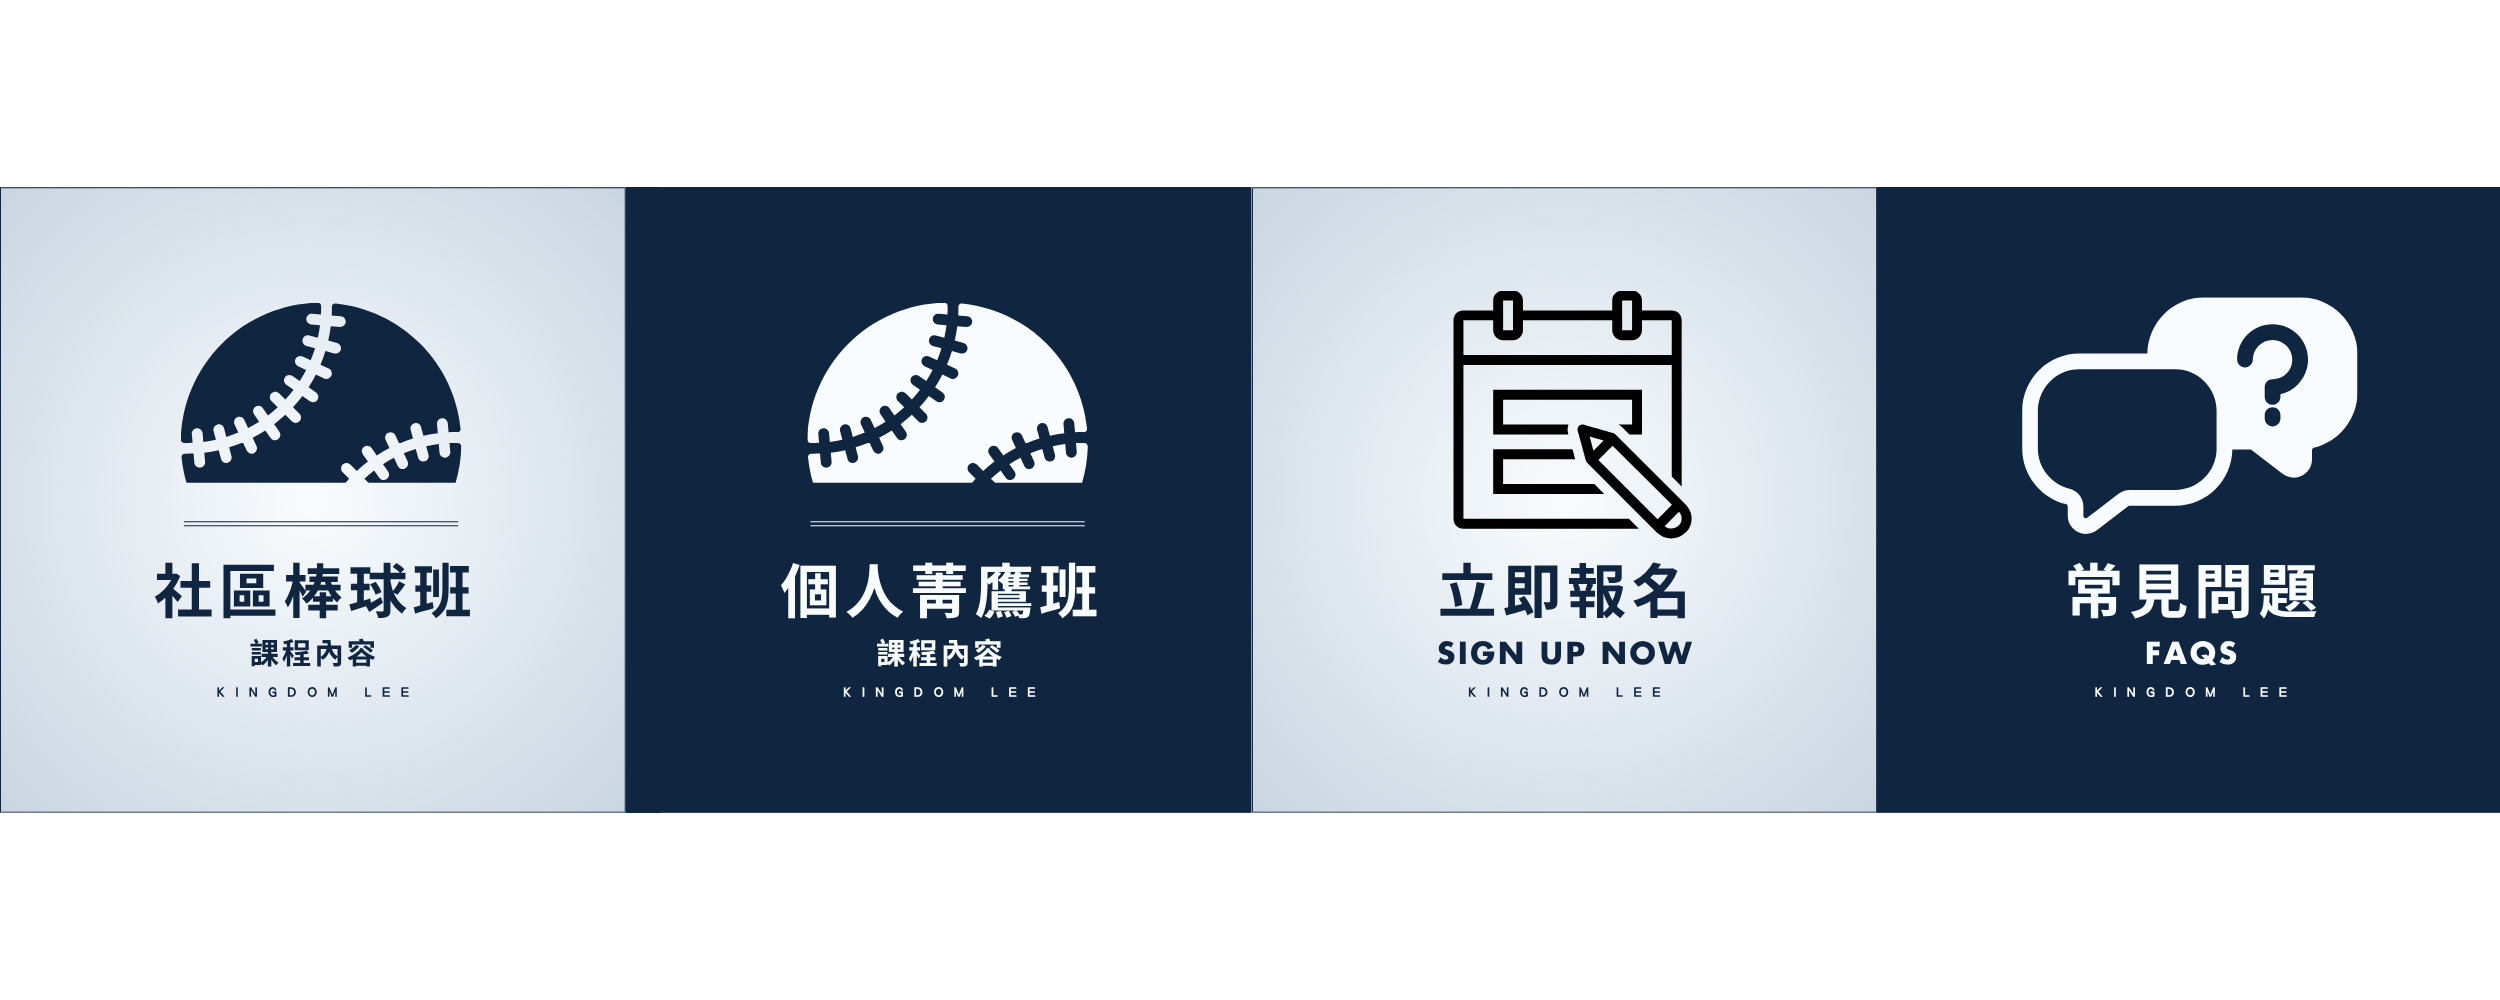
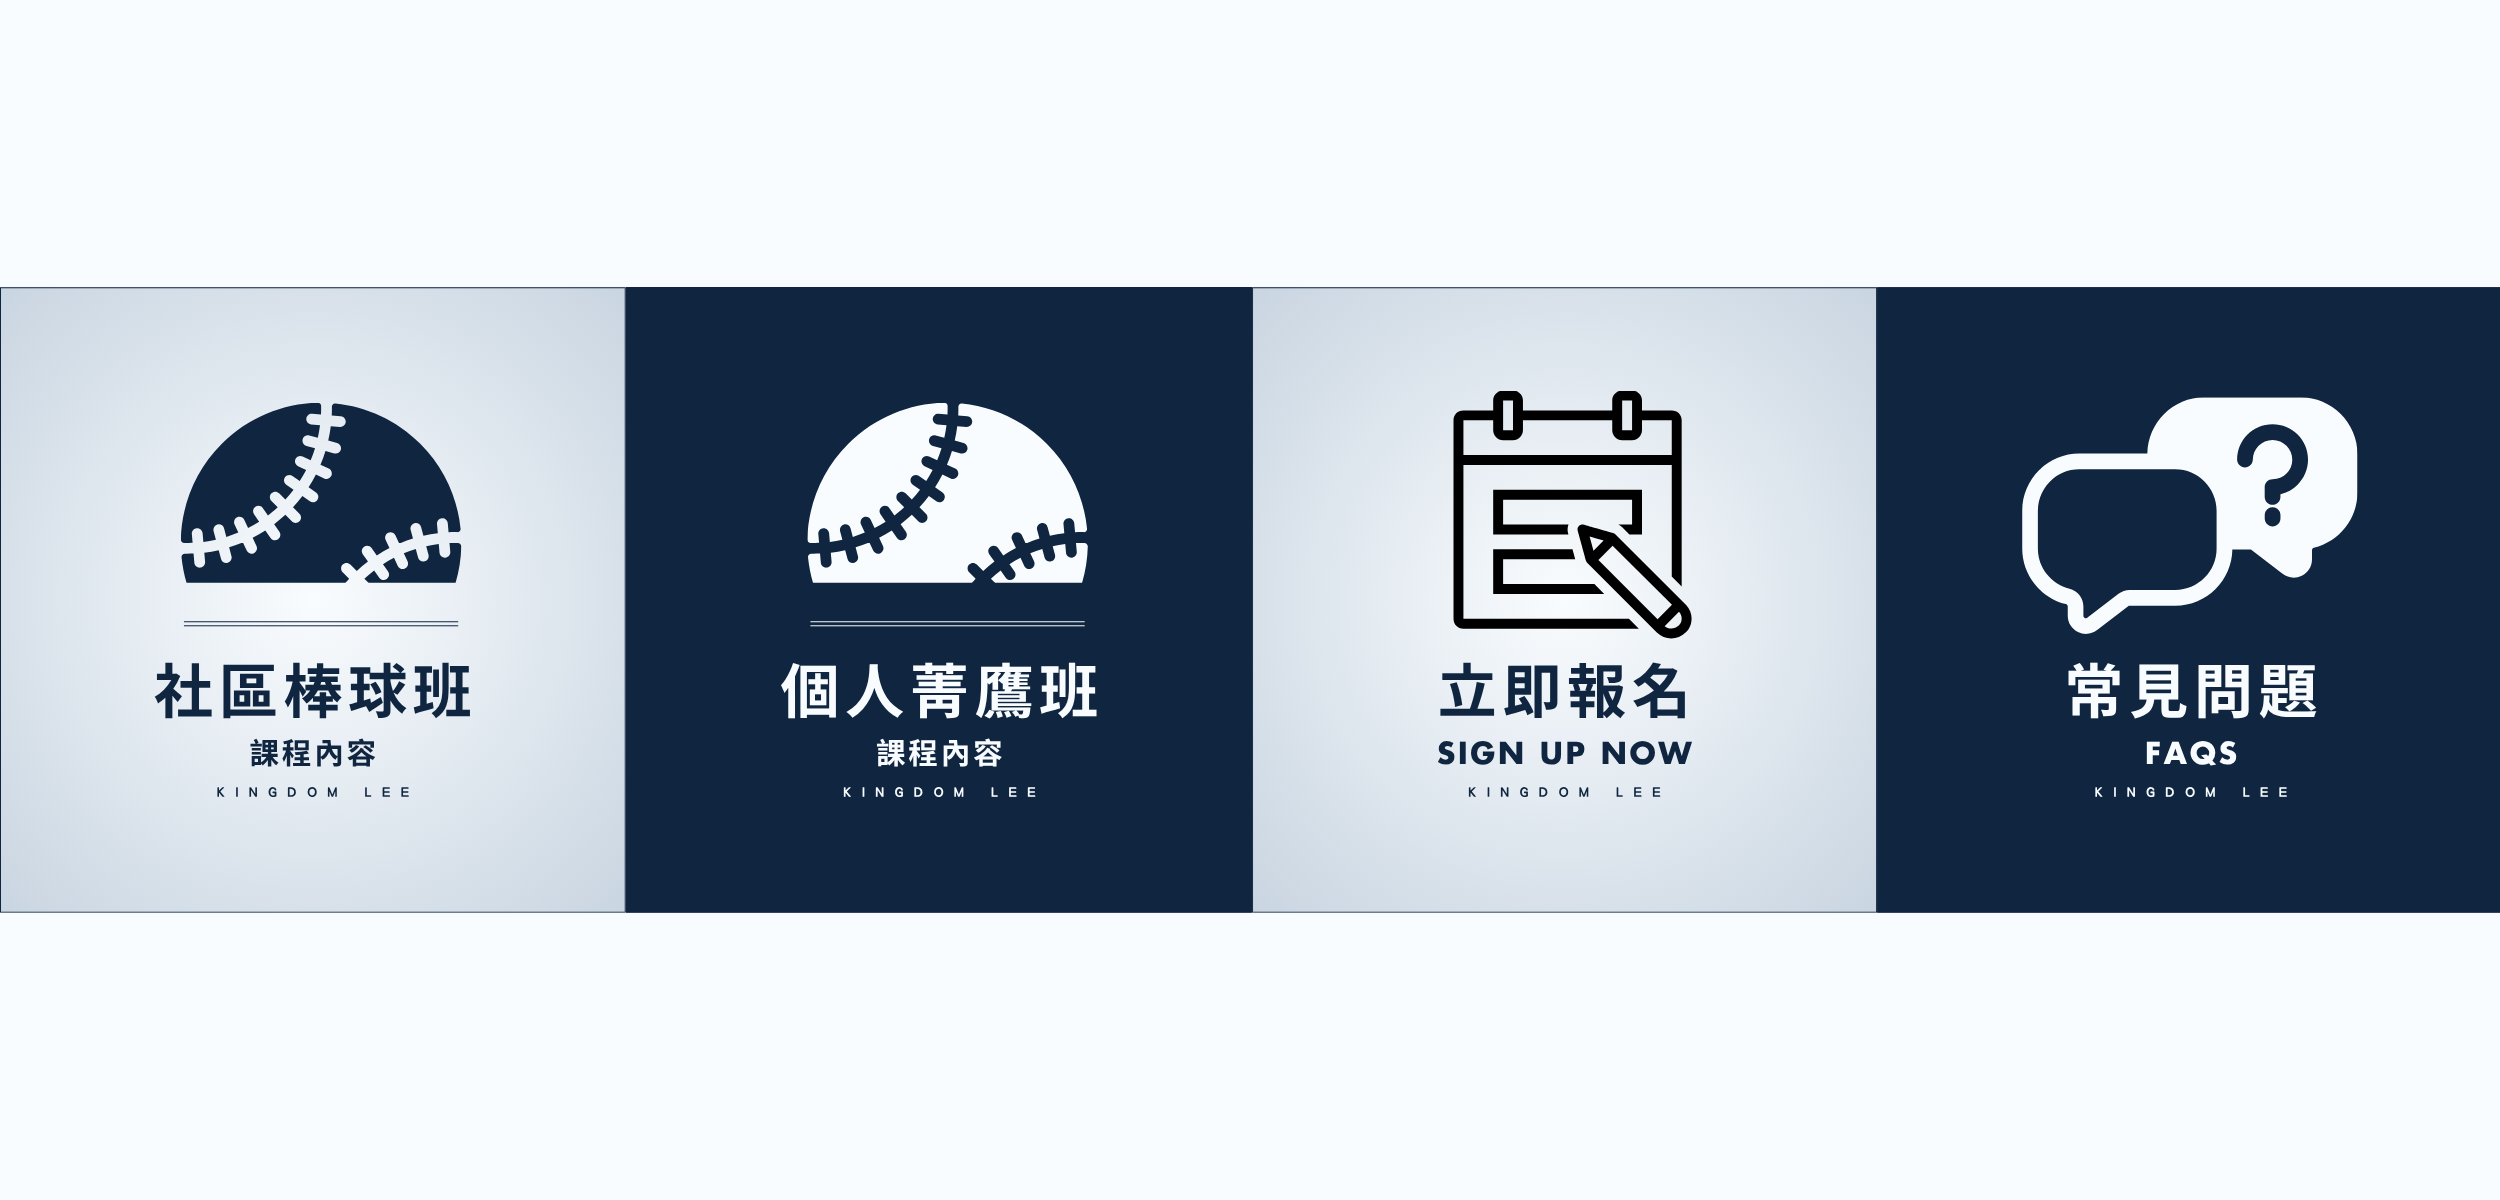
menu

diff --git a/src/api.ts b/src/api.ts
@@ -26,35 +26,35 @@ export const createRichMenu = async (): Promise<string | null> => {
   const richMenuData = {
     size: {
       width: 2500,
-      height: 1000,
+      height: 1200,
     },
     selected: true,
     name: 'DoubleButtonMenu',
     chatBarText: '開啟選單',
     areas: [
       {
-        bounds: { x: 0, y: 0, width: 625, height: 1000 },
+        bounds: { x: 0, y: 0, width: 625, height: 1200 },
         action: {
           type: 'postback',
           data: 'community'
         }
       },
       {
-        bounds: { x: 625, y: 0, width: 625, height: 1000 },
+        bounds: { x: 625, y: 0, width: 625, height: 1200 },
         action: {
           type: 'postback',
           data: 'personal'
         }
       },
       {
-        bounds: { x: 1250, y: 0, width: 625, height: 1000 },
+        bounds: { x: 1250, y: 0, width: 625, height: 1200 },
         action: {
           type: 'postback',
           data: 'signup'
         },
       },
       {
-        bounds: { x: 1875, y: 0, width: 625, height: 1000 },
+        bounds: { x: 1875, y: 0, width: 625, height: 1200 },
         action: {
           type: 'postback',
           data: 'faq'
